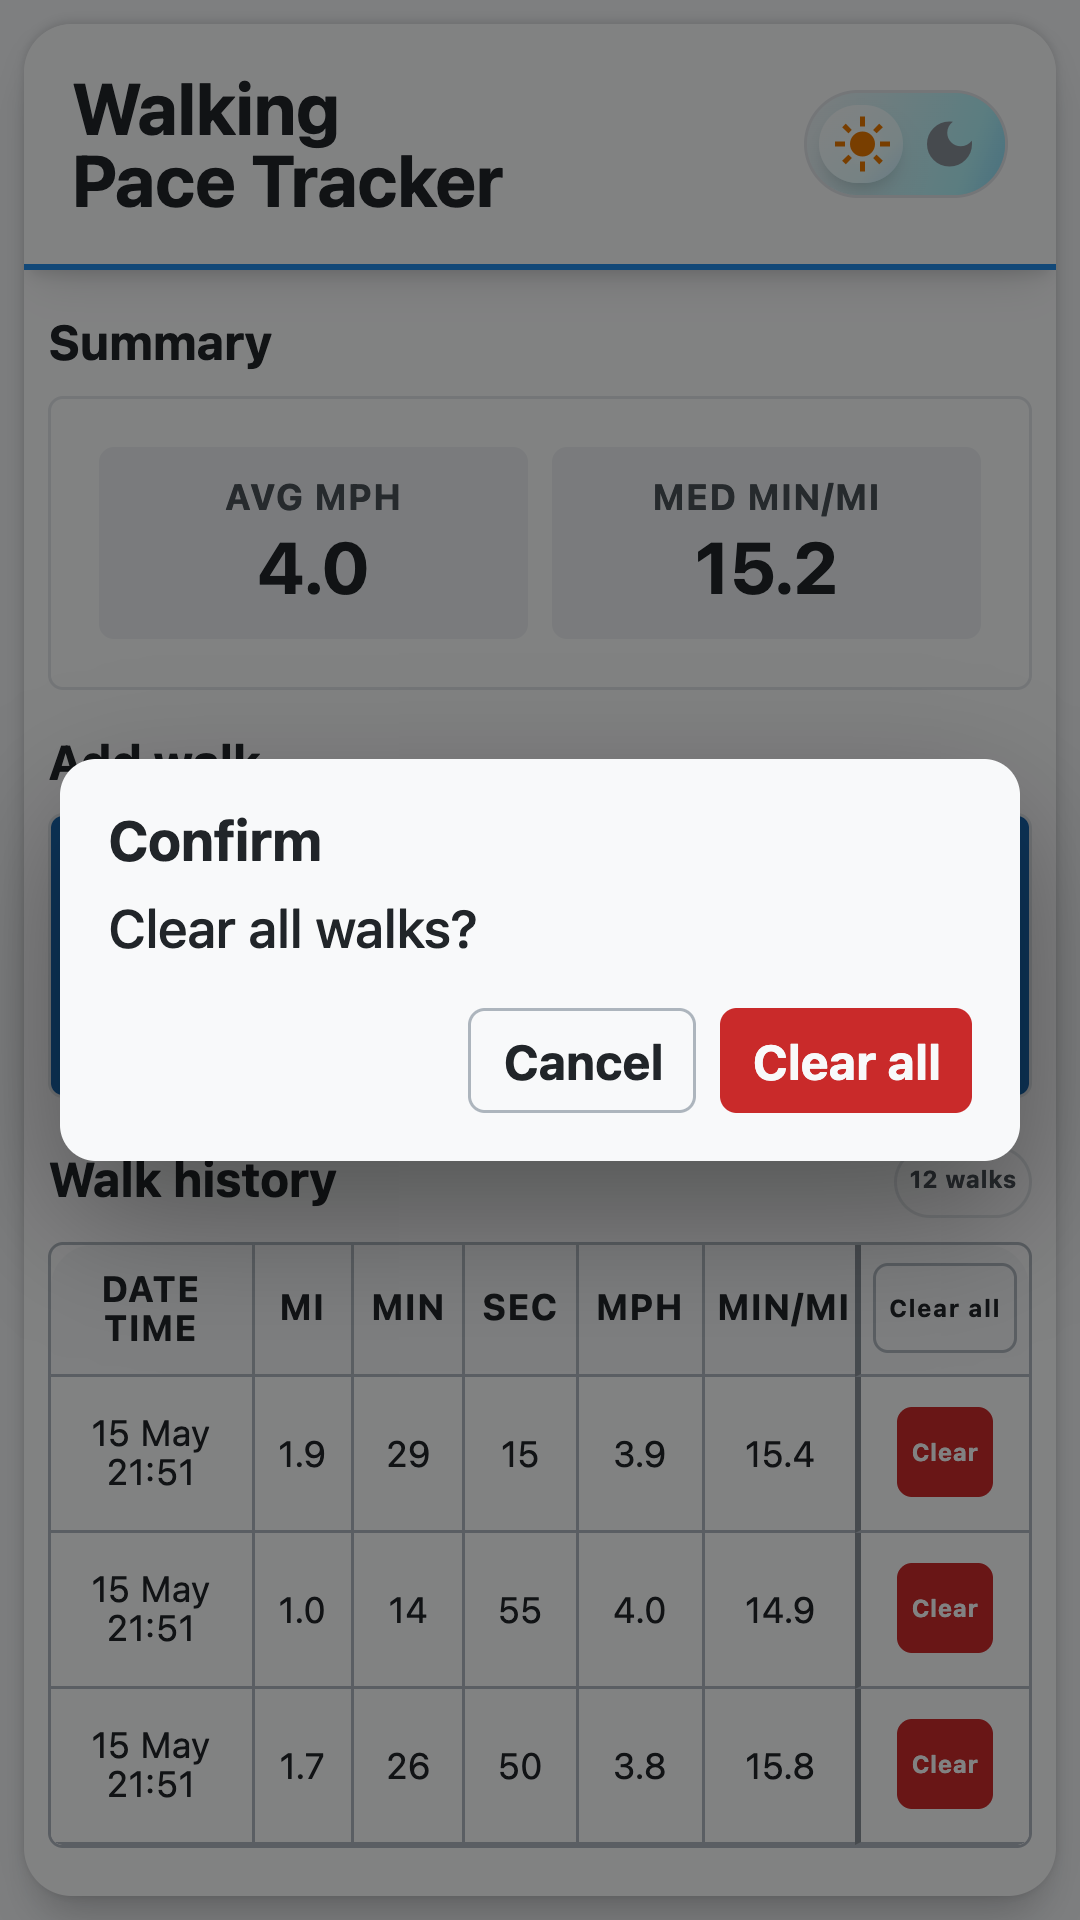
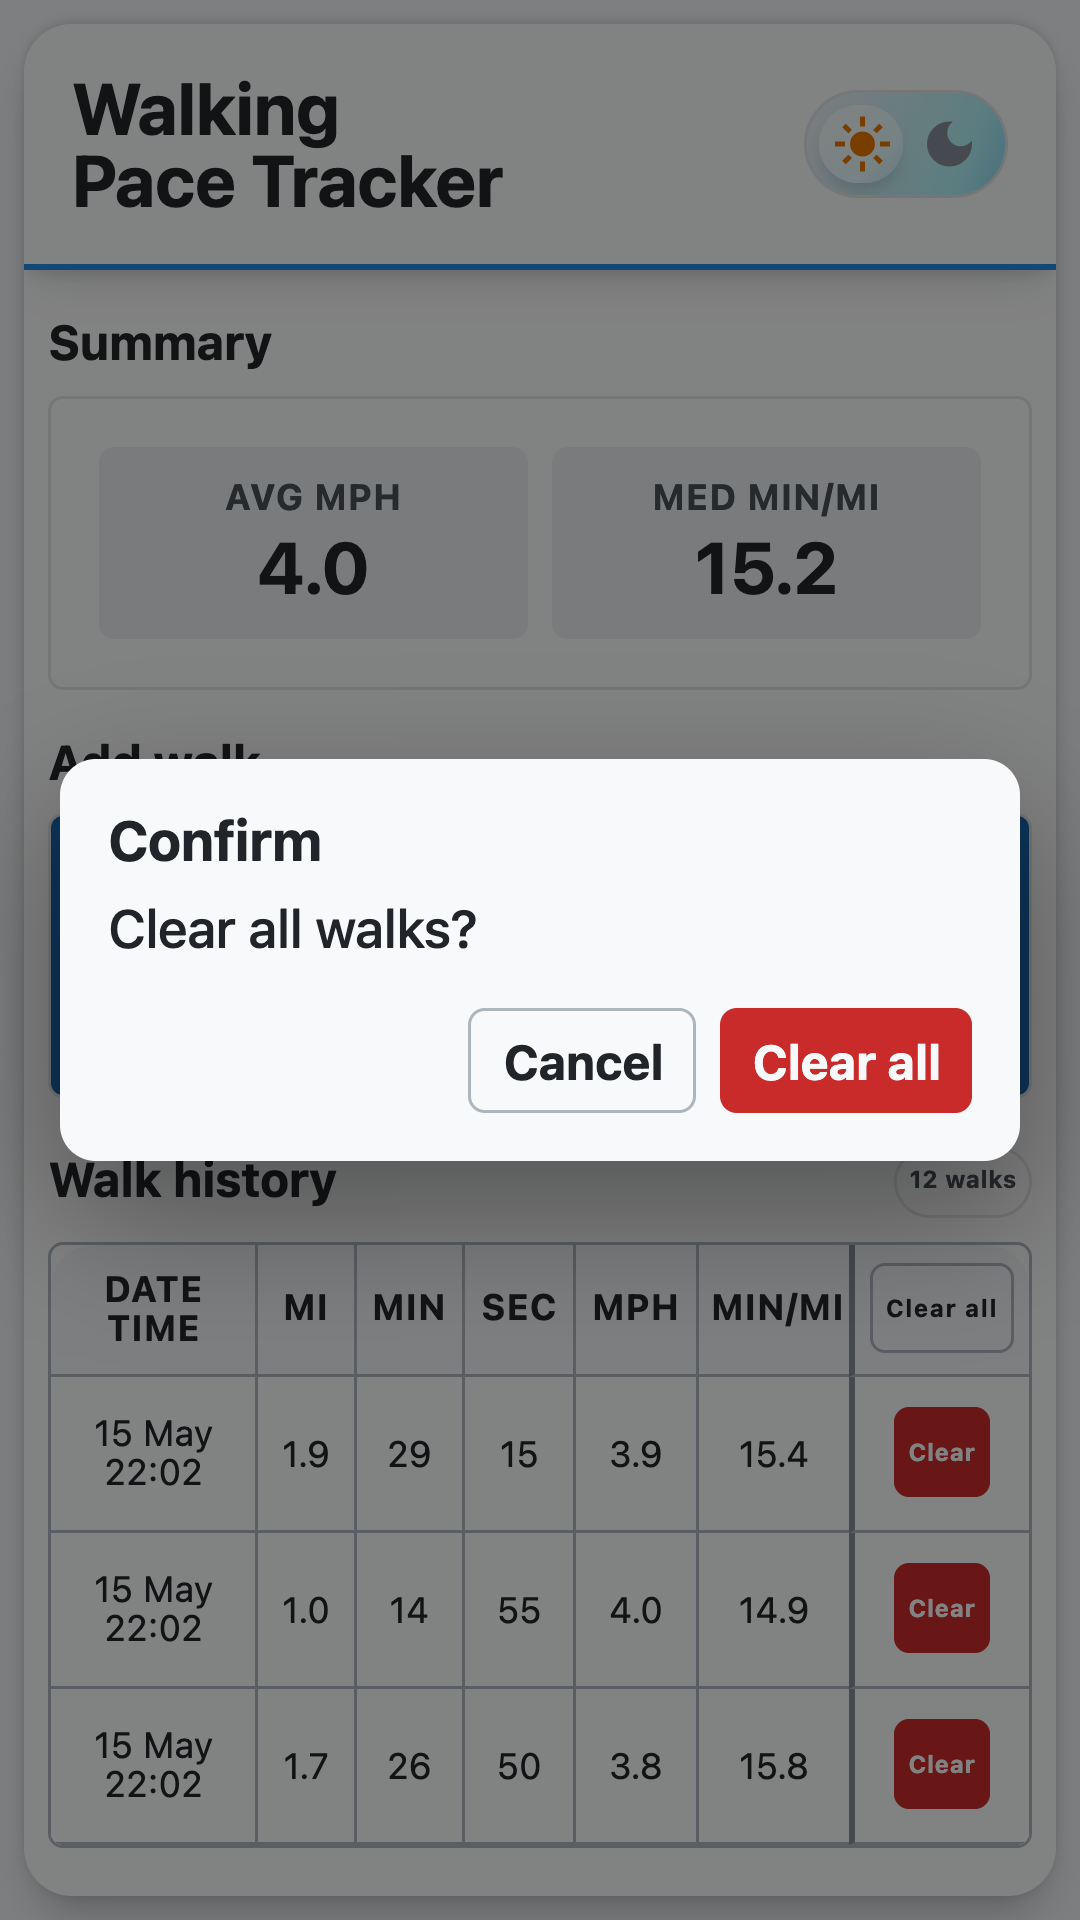
refactor(components): add chip and labelled output

diff --git a/src/htmx.test.tsx b/src/htmx.test.tsx
@@ -25,7 +25,7 @@ describe("HTMX contracts", () => {
     expect(response.status).toBe(200);
     expect(harness.repository.getAllWalks()).toHaveLength(1);
     expect(html).toStartWith("<div class=\"walks-history\">");
-    expect(html).toContain("<span class=\"history-count\">1 walk</span>");
+    expect(html).toContain("<span class=\"chip history-count\">1 walk</span>");
     expect(html).toContain("<table class=\"scrollable-table walks-table\">");
     expect(html).toContain("<tbody>");
     expect(html).not.toContain("<html");
@@ -46,7 +46,7 @@ describe("HTMX contracts", () => {
 
     expect(response.status).toBe(200);
     expect(html).toStartWith("<div class=\"stats\">");
-    expect(html).toContain("<output class=\"stat-value\">3.0</output>");
+    expect(html).toContain("<output class=\"labelled-output-value\">3.0</output>");
     expect(html).not.toContain("<html");
   });
 
@@ -66,7 +66,7 @@ describe("HTMX contracts", () => {
 
     expect(response.status).toBe(200);
     expect(harness.repository.getAllWalks()).toHaveLength(0);
-    expect(html).toContain("<span class=\"history-count\">0 walks</span>");
+    expect(html).toContain("<span class=\"chip history-count\">0 walks</span>");
     expect(html).toContain("No walks recorded yet.");
     expect(html).not.toContain("<html");
   });
@@ -94,9 +94,9 @@ describe("HTMX contracts", () => {
 
     expect(response.status).toBe(200);
     expect(harness.repository.getAllWalks()).toHaveLength(0);
-    expect(html).toContain("<span class=\"history-count\">0 walks</span>");
+    expect(html).toContain("<span class=\"chip history-count\">0 walks</span>");
     expect(html).toContain("No walks recorded yet.");
     expect(html).not.toContain("<html");
-    expect(statsHtml).toContain("<output class=\"stat-value\">--</output>");
+    expect(statsHtml).toContain("<output class=\"labelled-output-value\">--</output>");
   });
 });

diff --git a/src/components/organisms/WalksTable/WalksTable.tsx b/src/components/organisms/WalksTable/WalksTable.tsx
@@ -1,5 +1,6 @@
 import type { WalkWithStats } from "../../../db";
 import { Button } from "../../atoms/Button";
+import { Chip } from "../../atoms/Chip";
 import { ScrollableTable } from "../../molecules/ScrollableTable";
 import { WalksRow } from "../../molecules/WalksRow";
 
@@ -14,13 +15,13 @@ const columnsTemplate = [
 ].join(" ");
 
 const mobileColumnsTemplate = [
-  "minmax(3.65rem, 1.05fr)",
-  "minmax(1.8rem, 0.52fr)",
-  "minmax(2.05rem, 0.58fr)",
-  "minmax(2.05rem, 0.58fr)",
-  "minmax(2.35rem, 0.66fr)",
-  "minmax(2.85rem, 0.78fr)",
-  "minmax(3.55rem, 0.9fr)",
+  "minmax(0, 1.25fr)",
+  "minmax(0, 0.58fr)",
+  "minmax(0, 0.66fr)",
+  "minmax(0, 0.66fr)",
+  "minmax(0, 0.74fr)",
+  "minmax(0, 0.9fr)",
+  "minmax(3.75rem, 0.95fr)",
 ].join(" ");
 
 export const WalksTable = ({ walks }: { walks: WalkWithStats[] }) => {
@@ -31,7 +32,7 @@ export const WalksTable = ({ walks }: { walks: WalkWithStats[] }) => {
       <div class="walks-history">
         <header class="history-header">
           <h3 id="history-heading" class="section-title">Walk history</h3>
-          <span class="history-count">{countLabel}</span>
+          <Chip className="history-count">{countLabel}</Chip>
         </header>
         <div class="empty-state">
           No walks recorded yet. Add your first walk above!
@@ -45,7 +46,7 @@ export const WalksTable = ({ walks }: { walks: WalkWithStats[] }) => {
     <div class="walks-history">
       <header class="history-header">
         <h3 id="history-heading" class="section-title">Walk history</h3>
-        <span class="history-count">{countLabel}</span>
+        <Chip className="history-count">{countLabel}</Chip>
       </header>
       <ScrollableTable
         className="walks-table"

diff --git a/src/components/molecules/LabelledOutput/LabelledOutput.styles.ts b/src/components/molecules/LabelledOutput/LabelledOutput.styles.ts
@@ -1,43 +1,43 @@
-export const statStyles = /* css */`
-.stat {
-  background-color: var(--surface-raised);
-  padding: var(--size-3);
-  border-radius: var(--radius-2);
-  text-align: center;
-  display: grid;
+export const labelledOutputStyles = /* css */`
+.labelled-output {
   align-content: center;
+  background-color: var(--surface-raised);
+  border-radius: var(--radius-2);
+  display: grid;
   gap: var(--size-2);
   min-height: 5rem;
+  padding: var(--size-3);
+  text-align: center;
 }
 
-.stat-label {
+.labelled-output-label {
+  color: var(--text-muted);
   font-size: var(--font-size-0);
   font-weight: var(--font-weight-7);
-  color: var(--text-muted);
-  text-transform: uppercase;
   letter-spacing: var(--font-letterspacing-2);
   line-height: var(--font-lineheight-0);
+  text-transform: uppercase;
 }
 
-.stat-value {
+.labelled-output-value {
+  color: var(--text);
   font-size: var(--font-size-5);
   font-weight: var(--font-weight-7);
-  color: var(--text);
   line-height: var(--font-lineheight-0);
 }
 
 @media (max-width: 480px) {
-  .stat {
+  .labelled-output {
     gap: var(--size-1);
     min-height: 4rem;
     padding: var(--size-2);
   }
 
-  .stat-label {
+  .labelled-output-label {
     letter-spacing: var(--font-letterspacing-1);
   }
 
-  .stat-value {
+  .labelled-output-value {
     font-size: var(--font-size-4);
   }
 }

diff --git a/src/components/organisms/WalksTable/WalksTable.test.tsx b/src/components/organisms/WalksTable/WalksTable.test.tsx
@@ -29,7 +29,7 @@ describe("WalksTable", () => {
 
     expect(html).toContain("<div class=\"walks-history\">");
     expect(html).toContain("<h3 id=\"history-heading\" class=\"section-title\">Walk history</h3>");
-    expect(html).toContain("<span class=\"history-count\">1 walk</span>");
+    expect(html).toContain("<span class=\"chip history-count\">1 walk</span>");
     expect(html).toContain("<div class=\"scrollable-table-container\"");
     expect(html).toContain("--scrollable-table-columns:");
     expect(html).toContain("--scrollable-table-mobile-columns:");
@@ -50,14 +50,14 @@ describe("WalksTable", () => {
   test("marks tables with enough rows as scrollable", () => {
     const html = render(<WalksTable walks={manyWalks} />);
 
-    expect(html).toContain("<span class=\"history-count\">4 walks</span>");
+    expect(html).toContain("<span class=\"chip history-count\">4 walks</span>");
     expect(html).toContain("data-scrollable=\"true\"");
   });
 
   test("renders an empty state", () => {
     const html = render(<WalksTable walks={[]} />);
 
-    expect(html).toContain("<span class=\"history-count\">0 walks</span>");
+    expect(html).toContain("<span class=\"chip history-count\">0 walks</span>");
     expect(html).toContain("No walks recorded yet.");
   });
 });

diff --git a/src/components/templates/Layout/Layout.test.tsx b/src/components/templates/Layout/Layout.test.tsx
@@ -40,13 +40,15 @@ describe("Layout", () => {
     expect(html).toContain("border: var(--border-size-1) solid var(--table-border);");
     expect(html).toContain("min-height: calc(2.75rem + (2 * 2.5rem))");
     expect(html).toContain("flex: 0 0 var(--scrollable-table-row-height);");
+    expect(html).toContain("overflow-x: hidden;");
     expect(html).toContain(".scrollable-table tbody .scrollable-table-row:last-child > td");
     expect(html).toContain(".scrollable-table-filler-row");
     expect(html).toContain("border-end-start-radius: var(--scrollable-table-inner-radius)");
     expect(html).toContain("border-end-end-radius: var(--scrollable-table-inner-radius)");
     expect(html).toContain("border-inline-start: var(--border-size-2) solid var(--table-action-divider)");
     expect(html).toContain(".scrollable-table tbody,");
-    expect(html).toContain(".history-count,");
+    expect(html).toContain(".chip,");
+    expect(html).toContain(".labelled-output-value,");
     expect(html).toContain("background-size: 280% 100%");
     expect(html).toContain("transition: color var(--theme-text-transition);");
     expect(html).not.toContain("transition: opacity var(--theme-transition), transform var(--theme-transition), color var(--theme-transition)");

diff --git a/src/components/styles.ts b/src/components/styles.ts
@@ -1,10 +1,11 @@
 import { buttonStyles } from "./atoms/Button/Button.styles";
 import { cardStyles } from "./atoms/Card/Card.styles";
+import { chipStyles } from "./atoms/Chip/Chip.styles";
 import { switchStyles } from "./atoms/Switch/Switch.styles";
 import { walksCellStyles } from "./atoms/WalksCell/WalksCell.styles";
 import { inputGroupStyles } from "./molecules/InputGroup/InputGroup.styles";
+import { labelledOutputStyles } from "./molecules/LabelledOutput/LabelledOutput.styles";
 import { scrollableTableStyles } from "./molecules/ScrollableTable/ScrollableTable.styles";
-import { statStyles } from "./molecules/Stat/Stat.styles";
 import { walksRowStyles } from "./molecules/WalksRow/WalksRow.styles";
 import { statsStyles } from "./organisms/Stats/Stats.styles";
 import { walkFormStyles } from "./organisms/WalkForm/WalkForm.styles";
@@ -16,11 +17,12 @@ export const appStyles = [
   layoutStyles,
   buttonStyles,
   cardStyles,
+  chipStyles,
   switchStyles,
   walksCellStyles,
   inputGroupStyles,
+  labelledOutputStyles,
   scrollableTableStyles,
-  statStyles,
   walksRowStyles,
   statsStyles,
   walkFormStyles,

diff --git a/src/components/molecules/ScrollableTable/ScrollableTable.styles.ts b/src/components/molecules/ScrollableTable/ScrollableTable.styles.ts
@@ -53,6 +53,7 @@ export const scrollableTableStyles = /* css */`
   display: flex;
   flex-direction: column;
   min-height: 0;
+  overflow-x: hidden;
   overflow-y: auto;
   scrollbar-gutter: stable;
 }
@@ -62,6 +63,7 @@ export const scrollableTableStyles = /* css */`
   display: grid;
   grid-template-columns: var(--scrollable-table-columns);
   margin: 0;
+  max-width: 100%;
   min-width: 0;
   width: 100%;
 }
@@ -79,6 +81,7 @@ export const scrollableTableStyles = /* css */`
   letter-spacing: var(--font-letterspacing-2);
   line-height: var(--font-lineheight-0);
   min-width: 0;
+  overflow: hidden;
   padding: var(--size-2);
   place-items: center;
   text-align: center;
@@ -158,6 +161,7 @@ export const scrollableTableStyles = /* css */`
     --button-height: 1.85rem;
     --button-font-size: var(--font-size-00);
     --button-padding-inline: var(--size-1);
+    max-width: 100%;
   }
 }
 `;

diff --git a/src/components/molecules/LabelledOutput/LabelledOutput.test.tsx b/src/components/molecules/LabelledOutput/LabelledOutput.test.tsx
@@ -1,0 +1,18 @@
+import { describe, expect, test } from "bun:test";
+import { LabelledOutput } from "./LabelledOutput";
+
+const render = (node: unknown): string => String(node);
+
+describe("LabelledOutput", () => {
+  test("renders formatted output values", () => {
+    const html = render(<LabelledOutput label="Avg mph" value={4.321} />);
+
+    expect(html).toContain("<div class=\"labelled-output\">");
+    expect(html).toContain("<output class=\"labelled-output-label\">Avg mph</output>");
+    expect(html).toContain("<output class=\"labelled-output-value\">4.3</output>");
+  });
+
+  test("renders placeholders for empty values", () => {
+    expect(render(<LabelledOutput label="Avg mph" value={0} />)).toContain("<output class=\"labelled-output-value\">--</output>");
+  });
+});

diff --git a/src/components/organisms/WalksTable/WalksTable.styles.ts b/src/components/organisms/WalksTable/WalksTable.styles.ts
@@ -22,20 +22,6 @@ export const walksTableStyles = /* css */`
   gap: var(--size-3);
 }
 
-.history-count {
-  display: inline-grid;
-  place-items: center;
-  min-height: 1.75rem;
-  padding: 0 var(--size-2);
-  border: var(--border-size-1) solid var(--border-subtle);
-  border-radius: var(--radius-round);
-  color: var(--text-muted);
-  font-size: var(--font-size-0);
-  font-weight: var(--font-weight-7);
-  line-height: var(--font-lineheight-0);
-  white-space: nowrap;
-}
-
 .walks-table td:nth-child(6),
 .walks-table th:nth-child(6) {
   border-inline-end: 0;
@@ -46,10 +32,5 @@ export const walksTableStyles = /* css */`
     gap: var(--size-2);
   }
 
-  .history-count {
-    min-height: 1.5rem;
-    padding: 0 var(--size-1);
-    font-size: var(--font-size-00);
-  }
 }
 `;

diff --git a/src/components/pages/Home/Home.test.tsx b/src/components/pages/Home/Home.test.tsx
@@ -31,7 +31,7 @@ describe("Home", () => {
     expect(html).toContain("<h3 id=\"entry-heading\" class=\"section-title\">Add walk</h3>");
     expect(html).toContain("class=\"card section-card form-section\"");
     expect(html).toContain("<h3 id=\"history-heading\" class=\"section-title\">Walk history</h3>");
-    expect(html).toContain("<span class=\"history-count\">1 walk</span>");
+    expect(html).toContain("<span class=\"chip history-count\">1 walk</span>");
     expect(html).toContain("id=\"stats\" hx-get=\"/stats\"");
     expect(html).toContain("id=\"walks-list\"");
   });

diff --git a/src/components/atoms/Chip/Chip.styles.ts b/src/components/atoms/Chip/Chip.styles.ts
@@ -1,0 +1,23 @@
+export const chipStyles = /* css */`
+.chip {
+  border: var(--border-size-1) solid var(--border-subtle);
+  border-radius: var(--radius-round);
+  color: var(--text-muted);
+  display: inline-grid;
+  font-size: var(--font-size-0);
+  font-weight: var(--font-weight-7);
+  line-height: var(--font-lineheight-0);
+  min-height: 1.75rem;
+  padding: 0 var(--size-2);
+  place-items: center;
+  white-space: nowrap;
+}
+
+@media (max-width: 480px) {
+  .chip {
+    font-size: var(--font-size-00);
+    min-height: 1.5rem;
+    padding: 0 var(--size-1);
+  }
+}
+`;

diff --git a/src/components/organisms/Stats/Stats.tsx b/src/components/organisms/Stats/Stats.tsx
@@ -1,12 +1,12 @@
-import { Stat } from "../../molecules/Stat";
+import { LabelledOutput } from "../../molecules/LabelledOutput";
 
 interface StatsProps { avgSpeed: number; medianPace?: number }
 
 export const Stats = ({ avgSpeed, medianPace }: StatsProps ) => {
   return (
     <div class="stats">
-      <Stat label="Avg mph" value={avgSpeed} />
-      <Stat label="Med min/mi" value={medianPace} />
+      <LabelledOutput label="Avg mph" value={avgSpeed} />
+      <LabelledOutput label="Med min/mi" value={medianPace} />
     </div>
   );
 };
